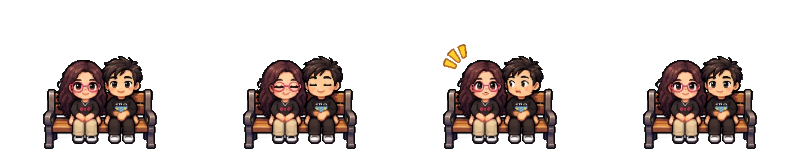
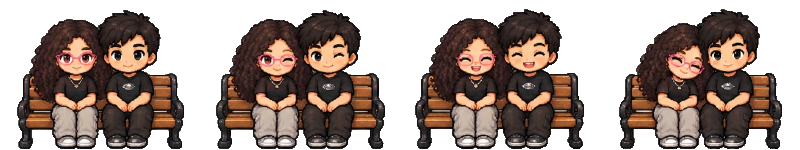
Banco do casal novo (4 ângulos, piscadinha, risada e cabeça no ombro), tia Jaque e Kelly na rua, avó da Bella no churrasco (Kelly fora dele), veículos novos no Uber, pista sem postes no meio
Claude-Session: https://claude.ai/code/session_01PDyLU6Huw5amytFREh1vA2

diff --git a/src/ui/screens/UberGame.ts b/src/ui/screens/UberGame.ts
@@ -14,7 +14,8 @@ export interface UberResult {
   seconds: number;
 }
 
-type Kind = 'cone' | 'poca' | 'buraco' | 'carro' | 'caixa' | 'barreira';
+type Kind = 'cone' | 'poca' | 'buraco' | 'carro' | 'caixa' | 'barreira' | 'veiculo';
+const VEIC: [string, number][] = [['moto', 42], ['onibus', 90], ['gas', 71], ['fusca', 58], ['pipoca', 50], ['bike', 33]];
 interface Obstacle {
   el: HTMLElement;
   lane: number;
@@ -109,7 +110,7 @@ export function playUberGame(parent: HTMLElement, opts: { title?: string; destin
     place();
 
     const spawn = () => {
-      const kinds: Kind[] = ['cone', 'poca', 'buraco', 'carro', 'carro', 'carro', 'poca', 'caixa', 'barreira'];
+      const kinds: Kind[] = ['cone', 'poca', 'buraco', 'carro', 'carro', 'veiculo', 'veiculo', 'veiculo', 'poca', 'caixa', 'barreira'];
       const kind = kinds[Math.floor(Math.random() * kinds.length)];
       const free = [0, 1, 2].filter((l) => !obstacles.some((o) => o.lane === l && o.x > 74));
       // nunca fecha as 3 faixas ao mesmo tempo
@@ -117,7 +118,12 @@ export function playUberGame(parent: HTMLElement, opts: { title?: string; destin
       if (!free.length || busy.length >= 2) return;
       const l = free[Math.floor(Math.random() * free.length)];
       const el = h('div', { class: `ub-ob ${kind === 'carro' ? 'carro2' : 'sprite'}` });
-      if (kind === 'carro') {
+      if (kind === 'veiculo') {
+        const [vn, vw] = VEIC[Math.floor(Math.random() * VEIC.length)];
+        el.className = 'ub-ob sprite veic';
+        el.style.backgroundImage = `url("${asset(`uber-v-${vn}.png`)}")`;
+        el.style.width = `calc(var(--u) * ${vw})`;
+      } else if (kind === 'carro') {
         el.style.backgroundImage = `url("${traffic}")`;
         el.style.backgroundPositionX = `${(Math.floor(Math.random() * 7) / 6) * 100}%`;
       } else {
@@ -144,7 +150,7 @@ export function playUberGame(parent: HTMLElement, opts: { title?: string; destin
       road.style.backgroundPositionX = `${-roadX}px`;
       const v = (46 + progress * 30) * speedMul; // % por segundo
       for (const o of obstacles) {
-        o.x -= v * dt * (o.kind === 'carro' ? 0.7 : 1);
+        o.x -= v * dt * (o.kind === 'carro' || o.kind === 'veiculo' ? 0.7 : 1);
         o.el.style.left = `${o.x}%`;
         if (!o.hit && o.lane === lane && o.x < 24 && o.x > 6) {
           o.hit = true;

diff --git a/src/systems/ScriptRunner.ts b/src/systems/ScriptRunner.ts
@@ -292,7 +292,7 @@ export function createScriptContext(scene: GameScene): ScriptContext {
         weng!.behavior = 'scripted';
         weng!.setVisible(false);
         // mesma largura do banco pintado no cenário (senão aparecem "dois bancos")
-        const BENCH_W: Record<string, number> = { 'bench-pq-ang-r': 114, 'bench-pq-front-lamp': 113, 'bench-pq-ang-l': 108, 'bench-pq-front-bin': 125, 'bench-rua': 111, 'bench-rua-bin': 124 };
+        const BENCH_W: Record<string, number> = { 'bench-pq-ang-r': 150, 'bench-pq-front-lamp': 166, 'bench-pq-ang-l': 139, 'bench-pq-front-bin': 185, 'bench-rua': 166, 'bench-rua-bin': 185 };
         const sc = couple.w && BENCH_W[couple.key] ? couple.w / 3 / BENCH_W[couple.key] : 1 / RENDER_SCALE;
         pair = scene.add.sprite(couple.x / 3, couple.y / 3, couple.key, 0).setOrigin(0.5, 1).setScale(sc);
         pair.setDepth(couple.y / 3 + 60);
@@ -302,11 +302,16 @@ export function createScriptContext(scene: GameScene): ScriptContext {
           loop: true,
           callback: () => {
             tick++;
-            if (tick % 22 === 0) pair!.setFrame(3);
-            else if (tick % 22 === 3) pair!.setFrame(0);
-            else if (tick % 7 === 0) {
+            // quadros: 0 normal, 1 piscadinha, 2 rindo, 3 ela encosta a cabeça nele
+            const f = String(pair!.frame.name);
+            if (tick % 18 === 0) pair!.setFrame(3);
+            else if (f === '3' && tick % 18 === 6) pair!.setFrame(0);
+            else if (f === '0' && tick % 11 === 0) {
+              pair!.setFrame(2);
+              scene.time.delayedCall(900, () => pair?.active && String(pair.frame.name) === '2' && pair.setFrame(0));
+            } else if (f === '0' && tick % 7 === 0) {
               pair!.setFrame(1);
-              scene.time.delayedCall(170, () => pair?.active && String(pair.frame.name) === '1' && pair.setFrame(0));
+              scene.time.delayedCall(260, () => pair?.active && String(pair.frame.name) === '1' && pair.setFrame(0));
             }
           },
         });

diff --git a/src/regions/piabeta/quintal.map.ts b/src/regions/piabeta/quintal.map.ts
@@ -150,17 +150,16 @@ const scripts: Record<string, Script> = {
   async arvore(ctx) {
     await ctx.say('bella', 'O pé de abacate. Quando dá, dá pra vizinhança inteira.');
   },
-  async kelly(ctx) {
-    if (!ctx.flag('kelly-1')) {
-      ctx.setFlag('kelly-1');
-      await ctx.say('kelly', 'Então você que é o famoso Weng? A Bella não para de falar de você.');
-      await ctx.say('bella', 'KELLY!');
-      await ctx.say('kelly', 'Que foi? É verdade! Prazer, eu sou a Kelly, prima dela.');
-      await ctx.say('weng', 'Prazer! ...Ela fala de mim, é?');
-      await ctx.say('kelly', 'O tempo todo. Mas não conta que eu contei.');
+  async avoBella(ctx) {
+    if (!ctx.flag('avo-bella-1')) {
+      ctx.setFlag('avo-bella-1');
+      await ctx.say('avo-bella', 'Então esse é o rapaz! Desci lá de cima só pra te conhecer, viu?');
+      await ctx.say('weng', 'Muito prazer, senhora! A Bella fala muito da senhora.');
+      await ctx.say('avo-bella', 'Senhora não, meu filho. Pode me chamar de vó. Agora come, que você tá magrinho.');
+      await ctx.emote('bella', 'heart');
       return;
     }
-    await ctx.say('kelly', 'Guarda um pedaço de picanha pra mim, hein!');
+    await ctx.say('avo-bella', 'Pega mais farofa, querido. A farofa fui eu que fiz.');
   },
 
   async mae(ctx) {
@@ -219,7 +218,7 @@ export const quintalMap: MapDef = {
   ],
 
   npcs: [
-    { id: 'kelly', sprite: 'kelly', tx: 26.0, ty: 13.4, facing: 'left', interact: 'kelly', behavior: 'wander', wanderRadius: 1.8, wanderAxis: 'both' },
+    { id: 'avo-bella', sprite: 'avo-bella', tx: 24.5, ty: 13.6, facing: 'left', interact: 'avoBella', behavior: 'wander', wanderRadius: 1.6, wanderAxis: 'both' },
     { id: 'pai-bella', sprite: 'pai-bella', tx: 7.4, ty: 11.6, facing: 'up', interact: 'pai' },
     { id: 'mae-bella', sprite: 'mae-bella', tx: 18.4, ty: 14.6, facing: 'left', interact: 'mae', behavior: 'wander', wanderRadius: 2.4, wanderAxis: 'both' },
   ],

diff --git a/src/regions/piabeta/rua.map.ts b/src/regions/piabeta/rua.map.ts
@@ -197,6 +197,27 @@ const scripts: Record<string, Script> = {
     await ctx.teleport('piabeta-rota66-fora', 'from-uber');
   },
 
+  async tiaJaque(ctx) {
+    if (ctx.flag('weng-segue')) {
+      await ctx.say('tia-jaque', 'Olha só quem tá de namoradinho! Prazer, eu sou a tia Jaque. Moro aqui no condomínio.');
+      await ctx.say('weng', 'Prazer, tia Jaque!');
+      await ctx.say('tia-jaque', 'Tia já! Gostei dele, Bella. Cuida bem dela, hein?');
+      return;
+    }
+    await ctx.say('tia-jaque', 'Bella! Toda arrumada assim, vai aonde? ...Vai encontrar alguém, né? Eu sei, eu sei. Sua mãe me contou.');
+    await ctx.say('bella', 'Tia! A minha mãe conta tudo pra todo mundo!');
+  },
+
+  async kelly(ctx) {
+    if (ctx.flag('weng-segue')) {
+      await ctx.say('kelly', 'Então você é o famoso Weng? Prazer, Kelly, prima dela.');
+      await ctx.say('kelly', 'A Bella trocou de roupa umas cinco vezes por sua causa. Mas não conta que eu contei.');
+      await ctx.say('bella', 'KELLY!');
+      return;
+    }
+    await ctx.say('kelly', 'Ihh, a Bella tá nervosa! Respira, prima. Ele vai amar você.');
+  },
+
   async vizinha(ctx) {
     if (ctx.objectiveDone('pia-s1', 'entregar')) {
       await ctx.say('vizinha', 'Minhas florzinhas estão lindas no vaso! Obrigada, meu bem.');
@@ -362,6 +383,8 @@ export const ruaMap: MapDef = {
       interact: 'weng',
       visibleIf: () => GameState.is('weng-segue') || esperandoNaEsquina(),
     },
+    { id: 'tia-jaque', sprite: 'tia-jaque', tx: 3.4, ty: 8.4, facing: 'right', interact: 'tiaJaque', behavior: 'wander', wanderRadius: 1.4, wanderAxis: 'x' },
+    { id: 'kelly', sprite: 'kelly', tx: 16.2, ty: 15.0, facing: 'down', interact: 'kelly', behavior: 'wander', wanderRadius: 1.2, wanderAxis: 'x' },
     { id: 'vizinha', sprite: 'vizinha', tx: 14.7, ty: 7.8, facing: 'down', interact: 'vizinha', behavior: 'wander', wanderRadius: 3, wanderAxis: 'x' },
   ],
   spawns: {

diff --git a/src/config/assetManifest.ts b/src/config/assetManifest.ts
@@ -56,6 +56,10 @@ export const ASSETS: AssetEntry[] = [
   char('NPC-010', 'vof-weng', 'npcs/vof-weng-walk.png', 136),
   char('NPC-011', 'vom-weng', 'npcs/vom-weng-walk.png', 136),
   char('NPC-012', 'kelly', 'npcs/kelly-walk.png', 136),
+  char('NPC-013', 'tia-jaque', 'npcs/tia-jaque-walk.png', 136),
+  char('NPC-014', 'avo-bella', 'npcs/avo-bella-walk.png', 136),
+  { id: 'PORT-013', key: 'portrait-tia-jaque', file: 'assets/portraits/tia-jaque.png', kind: 'image' },
+  { id: 'PORT-014', key: 'portrait-avo-bella', file: 'assets/portraits/avo-bella.png', kind: 'image' },
   { id: 'PORT-010', key: 'portrait-vof-weng', file: 'assets/portraits/vof-weng.png', kind: 'image' },
   { id: 'PORT-011', key: 'portrait-vom-weng', file: 'assets/portraits/vom-weng.png', kind: 'image' },
   { id: 'PORT-012', key: 'portrait-kelly', file: 'assets/portraits/kelly.png', kind: 'image' },

diff --git a/src/ui/styles.css b/src/ui/styles.css
@@ -1925,3 +1925,4 @@ html.hud-kit #rightbar .sb-btn.sb-kit .sb-label { color: #ffe9b0; text-shadow: 0
 /* barra de itens */
 html.hud-kit #hotbar .sb-bag { background: var(--hud-hotbar) center / 100% 100% no-repeat !important; border: none !important; box-shadow: none !important; padding: 1.1% 2.2% !important; }
 html.hud-kit .tb-quest { max-width: 48vw !important; padding: 8px 52px !important; white-space: nowrap; text-overflow: ellipsis; overflow: hidden !important; }
+.ub-ob.sprite.veic { aspect-ratio: auto; height: calc(var(--u) * 34); background-position: center bottom; transform: translate(-50%, -88%); }

diff --git a/src/data/characters/index.ts b/src/data/characters/index.ts
@@ -23,6 +23,8 @@ export const SPEAKERS: Record<string, SpeakerDef> = {
   'vof-weng': { name: PERSONAL.wengGrandparents.avo, portrait: 'portrait-vof-weng' },
   'vom-weng': { name: PERSONAL.wengGrandparents.avoh, portrait: 'portrait-vom-weng' },
   kelly: { name: PERSONAL.bellaFamily.prima, portrait: 'portrait-kelly' },
+  'tia-jaque': { name: `Tia ${PERSONAL.bellaFamily.tia}`, portrait: 'portrait-tia-jaque' },
+  'avo-bella': { name: 'Vó', portrait: 'portrait-avo-bella' },
   narrador: { name: '' },
   celular: { name: 'Celular' },
 };
